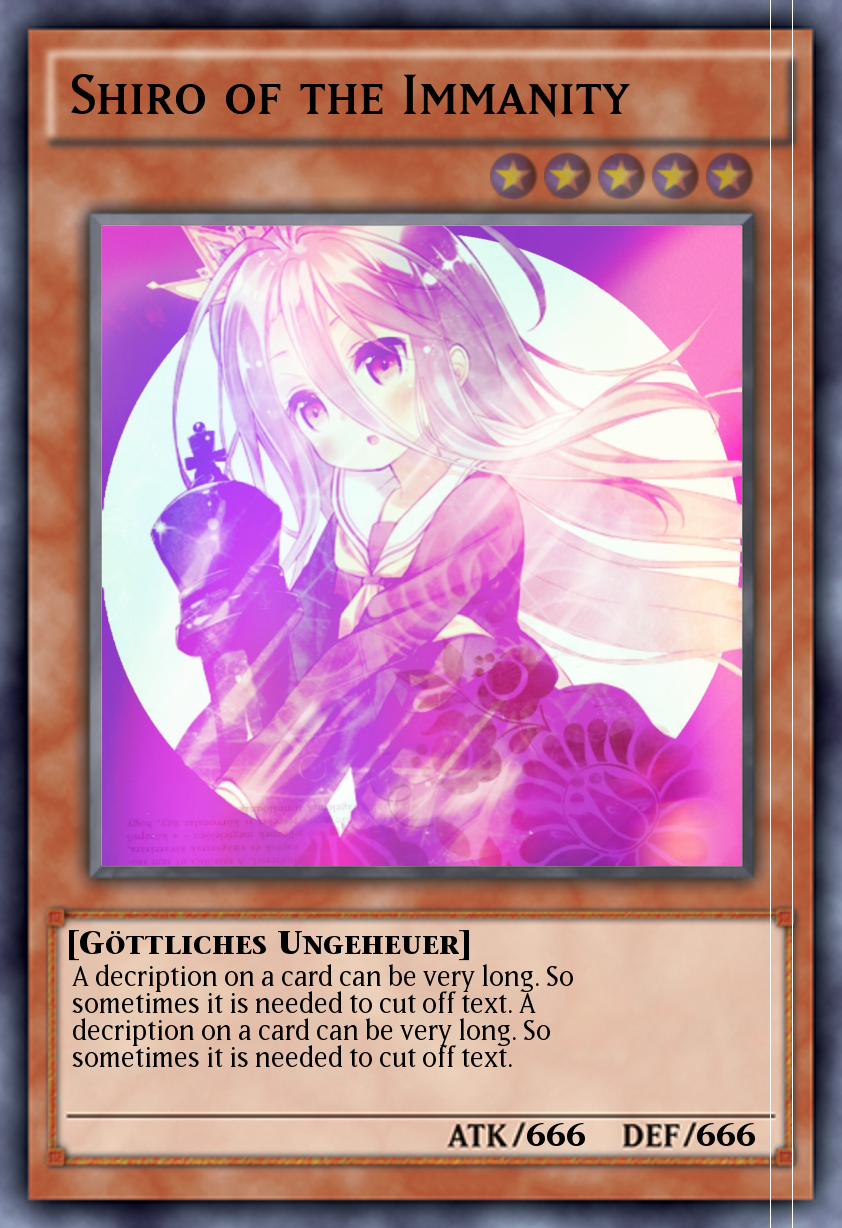
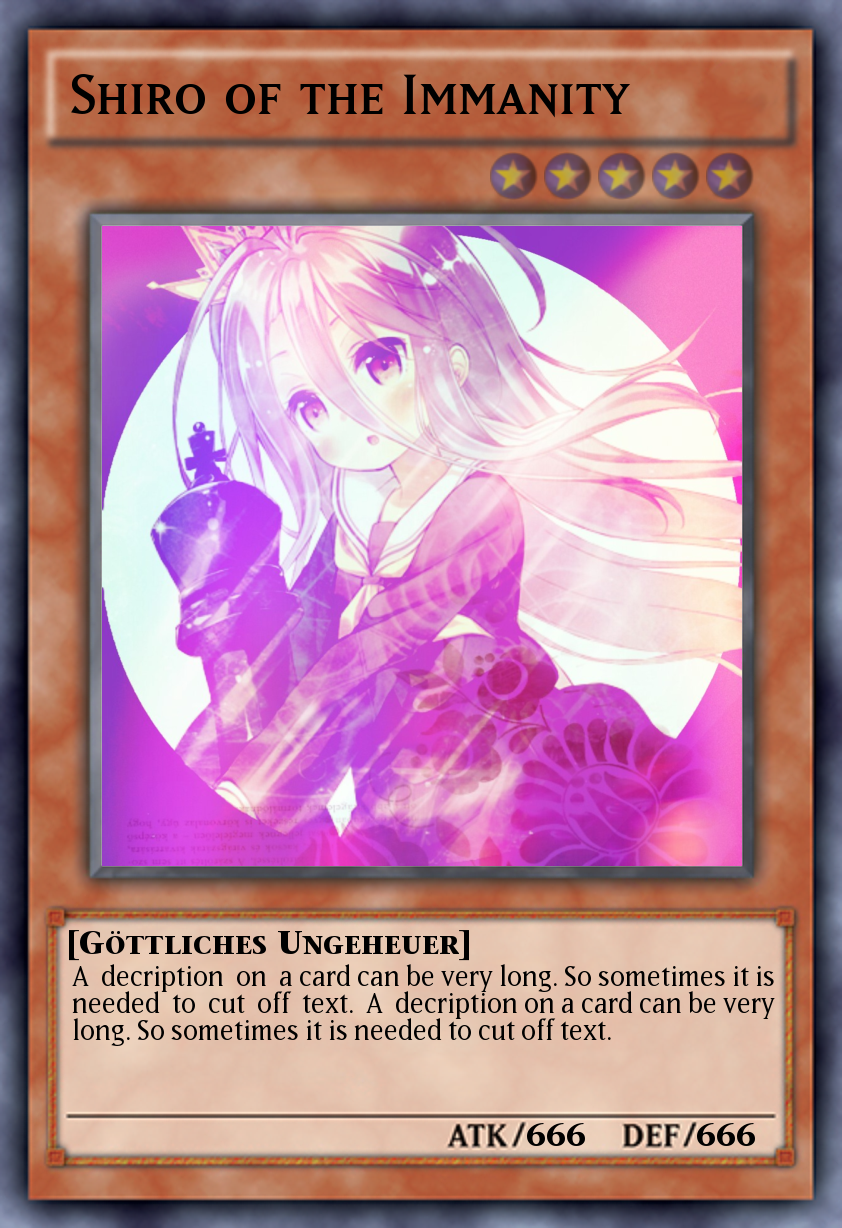
Linebreak and stretch text to width

Changed region(s): [[0.0926, 0.7736, 0.9264, 0.8664]]

diff --git a/modules/Card.py b/modules/Card.py
@@ -257,27 +257,20 @@ class Card:
             # If text got a defined texbox use it instead
             if object['max_width'] is not None:
                 max_width = object['max_width']
+                f = 'red'
             else:
+                f = 'blue'
                 if object['max_width'] is None:
                     max_width = self.card_design['width'] - 2 * self.card_design['var_border_width'] - object['padding']
                 else:
                     max_width = object['max_width']
 
-            # Guideline
-            self.card_img_draw.line(
-                (
-                    max_width,
-                    0,
-                    max_width,
-                    self.card_infos['height']
-                )
-            )
-
             # Calculate if '\n' is needed to display text
-            object['text'] = self.calculate_linebreak(
+            object['text'] = self.calculate_linebreak_old(
                 text =          object['text'],
                 font =          text_font,
-                max_width =     max_width
+                max_width =     max_width,
+                stretch_line =  object['stretch_line']
             )
             
             self.card_img_draw.text(
@@ -442,7 +435,7 @@ class Card:
         
         return return_anchor_tuple
     
-    def calculate_linebreak_old(self, text, font, max_width):
+    def calculate_linebreak_old(self, text, font, max_width, stretch_line = False):
         
         return_text = ['']
 
@@ -454,30 +447,94 @@ class Card:
             else:
                 return_text[-1] += ' ' + item if return_text != [''] else item
 
+                print(cache_font_width, 'of', max_width, return_text[-1])
+
         true_return = ''
 
         for i in range(len(return_text)):
-            true_return += return_text[i]
+            cache = return_text[i]
+
+            if stretch_line and i < len(return_text) - 1:
+                cache = self.stretch_line(cache, font, max_width)
+            
+            true_return += cache
 
             if i < len(return_text) - 1:
                 true_return += '\n'
 
         return true_return
     
-    def calculate_linebreak(self, text, font, max_width):
+    def calculate_linebreak(self, text, font, max_width, stretch_line = False):
         avg_char_width = sum(font.getsize(char)[0] for char in string.ascii_letters) / len(string.ascii_letters)
 
         max_char_count = max_width // avg_char_width
         
-        true_return = textwrap.fill(text, width = max_char_count)
+        if stretch_line:
+            # Wrap the text
+            true_return_list = textwrap.wrap(text, width = max_char_count)
+
+            # Build the return
+            true_return = ''
+
+            for x in true_return_list:
+                true_return += self.stretch_line(x, font, max_width)
+
+            for line in range(len(true_return_list)):
+                true_return += true_return_list[line]
+                if line < len(true_return_list) - 1:
+                    true_return += '\n'
+        else:
+            true_return = textwrap.fill(text, width = max_char_count)
 
         self.log(Fore.RED + 'calculate_linebreak(self, ' + text + ', ' + str(font) + ', ' + str(max_width) + '\n' + Fore.CYAN + true_return + Fore.RESET)
 
         self.log(Fore.BLUE + 'max_char_count: ' + str(max_char_count))
         self.log(Fore.BLUE + 'avg_char_width: ' + str(avg_char_width))
+        self.log(Fore.BLUE + 'max_width:      ' + str(max_width))
 
         return true_return
+
+    def stretch_line(self, line, font, max_width):
+        self.log('stretch_line')
+
+        line_split = line.split(' ')
+
+        spaces = []
+
+        for i in range(len(line_split)):
+            spaces.append(' ')
+
+        index = 0
+
+        cache_line = line
+        cache_line_w = font.getsize(cache_line)[0]
+
+        while cache_line_w < max_width:
+            spaces[index] += ' '
+
+            cache_line = ''
+
+            # Build line
+            for i in range(len(line_split)):
+                cache_line += line_split[i]
+
+                if i < len(spaces) - 1:
+                    cache_line += spaces[i]
+
+            cache_line_w = font.getsize(cache_line)[0]
+
+            # Increase index
+            index += 1
+
+            if index >= len(spaces):
+                index = 0
             
+            print(cache_line)
+            print(spaces)
+
+        return cache_line
+        
+
     
     def log(self, text):
         print('Log:', text)
